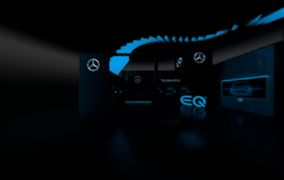
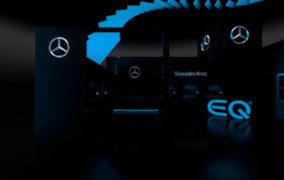
asd

diff --git a/skin.js b/skin.js
@@ -1,7 +1,7 @@
 // Garden Gnome Software - Skin
 // Pano2VR 6.1.10/18007
 // Filename: simplex_Merc1.ggsk
-// Generated 2021-02-09T17:43:21
+// Generated 2021-02-09T17:47:45
 
 function pano2vrSkin(player,base) {
 	player.addVariable('opt_hotspot_preview', 2, true);
@@ -11399,13 +11399,13 @@ function pano2vrSkin(player,base) {
 			me._thumbnail_cloner_mobile.ggUpdate();
 			if (
 				(
-					((player.getViewerSize().width >= 700))
+					((player.getIsMobile() == true))
 				)
 			) {
 				var params = {
 							   pan: 0,
 							   tilt: 0,
-							   fov: 70,
+							   fov: 100,
 							   projection: -1,
 							   timingFunction: 3,
 							   speed: 0
